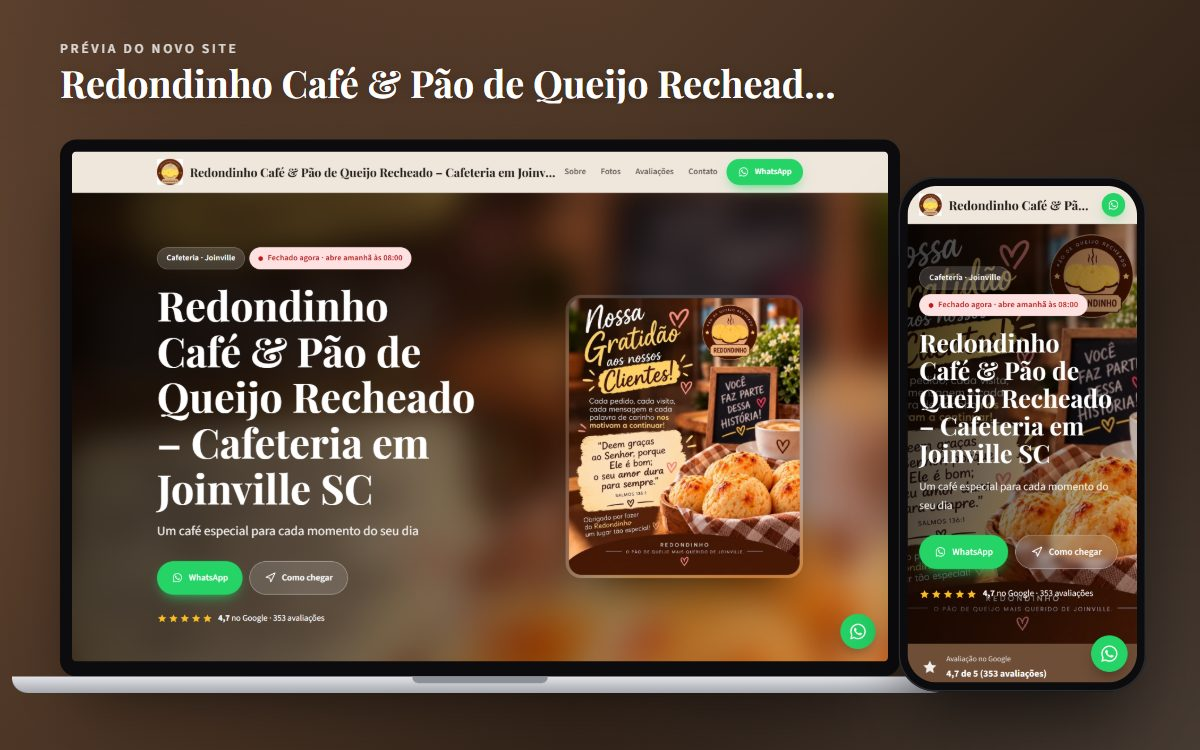
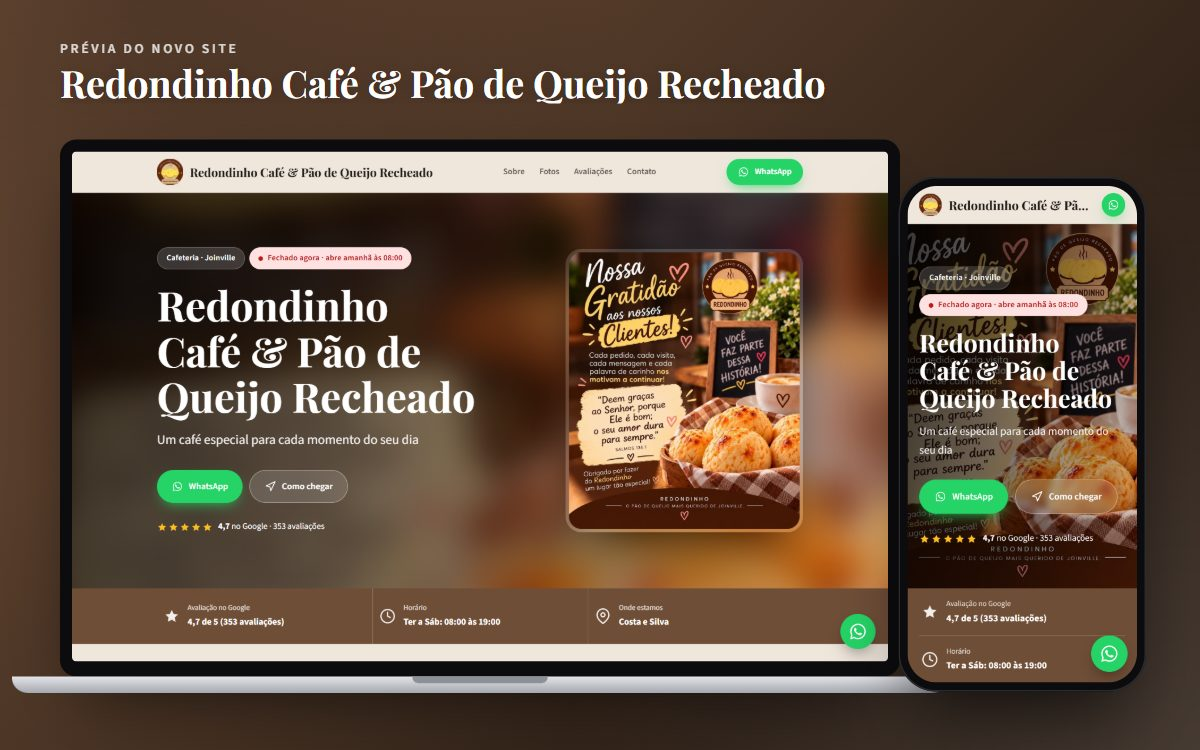
Prévia: Redondinho Café & Pão de Queijo Recheado – Cafeteria em Joinville SC

diff --git a/redondinho-cafe-pao-de-queijo-recheado-cafeteria-em-joinvill/index.html b/redondinho-cafe-pao-de-queijo-recheado-cafeteria-em-joinvill/index.html
@@ -3,14 +3,14 @@
 <head>
 <meta charset="utf-8">
 <meta name="viewport" content="width=device-width, initial-scale=1">
-<title>Redondinho Café &amp; Pão de Queijo Recheado – Cafeteria em Joinville SC | Joinville</title>
+<title>Redondinho Café &amp; Pão de Queijo Recheado | Joinville</title>
 <meta name="description" content="Um café especial para cada momento do seu dia">
 <meta name="robots" content="noindex, nofollow">
 <meta name="theme-color" content="#6f4e37">
-<meta name="versao" content="20261012012803">
+<meta name="versao" content="20261012013703">
 <link rel="icon" href="logo.png">
 <meta property="og:type" content="website">
-<meta property="og:title" content="Redondinho Café &amp; Pão de Queijo Recheado – Cafeteria em Joinville SC: prévia do novo site">
+<meta property="og:title" content="Redondinho Café &amp; Pão de Queijo Recheado: prévia do novo site">
 <meta property="og:description" content="Um café especial para cada momento do seu dia">
 <meta property="og:image" content="https://henriquecrs.github.io/previas/redondinho-cafe-pao-de-queijo-recheado-cafeteria-em-joinvill/capa.jpg">
 <meta property="og:image:width" content="1200">
@@ -413,7 +413,7 @@
 <header class="topo">
   <div class="container">
     <a class="marca" href="#inicio" data-editar-imagem="logo">
-      <img src="logo.png" alt=""><span>Redondinho Café &amp; Pão de Queijo Recheado – Cafeteria em Joinville SC</span>
+      <img src="logo.png" alt=""><span>Redondinho Café &amp; Pão de Queijo Recheado</span>
     </a>
     <nav class="menu">
       
@@ -433,7 +433,7 @@
   <div class="container">
     <div class="conteudo">
       <div class="selos"><span class="selo">Cafeteria · Joinville</span><span class="selo aberto" data-aberto hidden></span></div>
-      <h1 data-editar-texto="titulo">Redondinho Café &amp; Pão de Queijo Recheado – Cafeteria em Joinville SC</h1>
+      <h1 data-editar-texto="titulo">Redondinho Café &amp; Pão de Queijo Recheado</h1>
       <p class="slogan" data-editar-texto="slogan">Um café especial para cada momento do seu dia</p>
       <div class="acoes">
   
@@ -447,7 +447,7 @@
 </div>
 
     </div>
-    <div class="hero-quadro"><img src="banner.jpg" data-capa data-ampliar alt="Redondinho Café &amp; Pão de Queijo Recheado – Cafeteria em Joinville SC"></div>
+    <div class="hero-quadro"><img src="banner.jpg" data-capa data-ampliar alt="Redondinho Café &amp; Pão de Queijo Recheado"></div>
   </div>
 </section>
 <script>(function () {
@@ -498,7 +498,7 @@
       
     </div>
     
-    <div class="foto revelar" data-editar-imagem="sobre"><img data-ampliar src="fotos/1.jpg" alt="Redondinho Café &amp; Pão de Queijo Recheado – Cafeteria em Joinville SC"></div>
+    <div class="foto revelar" data-editar-imagem="sobre"><img data-ampliar src="fotos/1.jpg" alt="Redondinho Café &amp; Pão de Queijo Recheado"></div>
     
   </div>
 </section>
@@ -509,7 +509,7 @@
     <div class="cabeca revelar"><div class="olho">Fotos</div><h2>Venha conhecer</h2></div>
     
     <div class="galeria-grade mosaico" style="--colunas:4">
-      <figure data-editar-imagem="galeria"><img data-ampliar src="fotos/2.jpg" alt="Foto de Redondinho Café &amp; Pão de Queijo Recheado – Cafeteria em Joinville SC" loading="lazy"></figure><figure data-editar-imagem="galeria"><img data-ampliar src="fotos/3.jpg" alt="Foto de Redondinho Café &amp; Pão de Queijo Recheado – Cafeteria em Joinville SC" loading="lazy"></figure><figure data-editar-imagem="galeria"><img data-ampliar src="fotos/4.jpg" alt="Foto de Redondinho Café &amp; Pão de Queijo Recheado – Cafeteria em Joinville SC" loading="lazy"></figure><figure data-editar-imagem="galeria"><img data-ampliar src="fotos/5.jpg" alt="Foto de Redondinho Café &amp; Pão de Queijo Recheado – Cafeteria em Joinville SC" loading="lazy"></figure><figure data-editar-imagem="galeria"><img data-ampliar src="fotos/6.jpg" alt="Foto de Redondinho Café &amp; Pão de Queijo Recheado – Cafeteria em Joinville SC" loading="lazy"></figure>
+      <figure data-editar-imagem="galeria"><img data-ampliar src="fotos/2.jpg" alt="Foto de Redondinho Café &amp; Pão de Queijo Recheado" loading="lazy"></figure><figure data-editar-imagem="galeria"><img data-ampliar src="fotos/3.jpg" alt="Foto de Redondinho Café &amp; Pão de Queijo Recheado" loading="lazy"></figure><figure data-editar-imagem="galeria"><img data-ampliar src="fotos/4.jpg" alt="Foto de Redondinho Café &amp; Pão de Queijo Recheado" loading="lazy"></figure><figure data-editar-imagem="galeria"><img data-ampliar src="fotos/5.jpg" alt="Foto de Redondinho Café &amp; Pão de Queijo Recheado" loading="lazy"></figure><figure data-editar-imagem="galeria"><img data-ampliar src="fotos/6.jpg" alt="Foto de Redondinho Café &amp; Pão de Queijo Recheado" loading="lazy"></figure>
     </div>
   </div>
 </section>
@@ -582,7 +582,7 @@ Os cafés são bonitos e gostosos .”</p>
         <button class="btn btn-contorno" type="button" data-rota><svg class="" viewBox="0 0 24 24" fill="none" stroke="currentColor" stroke-width="2" stroke-linecap="round" stroke-linejoin="round" aria-hidden="true"><path d="M3 11l19-9-9 19-2-8-8-2z"/></svg>Como chegar</button>
       </div>
     </div>
-    <div class="mapa"><iframe src="https://maps.google.com/maps?q=-26.274276%2C-48.867514&amp;z=16&amp;output=embed" title="Mapa de Redondinho Café &amp; Pão de Queijo Recheado – Cafeteria em Joinville SC" loading="lazy" referrerpolicy="no-referrer-when-downgrade"></iframe></div>
+    <div class="mapa"><iframe src="https://maps.google.com/maps?q=-26.274276%2C-48.867514&amp;z=16&amp;output=embed" title="Mapa de Redondinho Café &amp; Pão de Queijo Recheado" loading="lazy" referrerpolicy="no-referrer-when-downgrade"></iframe></div>
   </div>
 </section>
 
@@ -600,7 +600,7 @@ Os cafés são bonitos e gostosos .”</p>
 
 <footer>
   <div class="container">
-    <div><h3>Redondinho Café &amp; Pão de Queijo Recheado – Cafeteria em Joinville SC</h3><p>Um café especial para cada momento do seu dia</p></div>
+    <div><h3>Redondinho Café &amp; Pão de Queijo Recheado</h3><p>Um café especial para cada momento do seu dia</p></div>
     <div><h4>Contato</h4><ul>
       <li>(47) 98906-0303</li>
       <li>R. Guilherme, 1260 - Costa e Silva, Joinville - SC, 89218-500, Brasil</li>
@@ -608,7 +608,7 @@ Os cafés são bonitos e gostosos .”</p>
     <div><h4>Horário</h4><ul>
       <li>Seg: Fechado</li><li>Ter a Sáb: 08:00 às 19:00</li><li>Dom: Fechado</li>
     </ul></div>
-    <div class="creditos">© 2026 Redondinho Café &amp; Pão de Queijo Recheado – Cafeteria em Joinville SC. Todos os direitos reservados.</div>
+    <div class="creditos">© 2026 Redondinho Café &amp; Pão de Queijo Recheado. Todos os direitos reservados.</div>
   </div>
 </footer>
 
@@ -631,7 +631,7 @@ Os cafés são bonitos e gostosos .”</p>
 
 
 <div class="barra-previa">
-  <span>Esta é uma prévia do novo site de <strong>Redondinho Café &amp; Pão de Queijo Recheado – Cafeteria em Joinville SC</strong>, feita por Henrique Costa.</span>
+  <span>Esta é uma prévia do novo site de <strong>Redondinho Café &amp; Pão de Queijo Recheado</strong>, feita por Henrique Costa.</span>
   <button class="btn btn-whats" type="button" data-painel="quero">Quero este site</button>
 </div>
 <div class="painel-fundo modal" id="painel-quero" hidden>
@@ -653,7 +653,7 @@ Os cafés são bonitos e gostosos .”</p>
 </div>
 
 
-<script type="application/json" id="dados-previa">{"aviso": {"clique": "https://wa.me/5547989060303", "lead": 775, "url": "https://ntfy.sh/buscas-af8141b474638e425c7e"}, "captura": false, "entrega": true, "itens": [{"duracao": 0, "emoji": "\u2615", "extra": "", "foto": "", "nome": "Cappuccino", "preco": 11.0, "preco_txt": "R$ 11,00"}, {"duracao": 0, "emoji": "\ud83e\uddc0", "extra": "", "foto": "", "nome": "P\u00e3o de queijo", "preco": 6.0, "preco_txt": "R$ 6,00"}, {"duracao": 0, "emoji": "\ud83c\udf70", "extra": "", "foto": "", "nome": "Bolo do dia", "preco": 10.0, "preco_txt": "R$ 10,00"}, {"duracao": 0, "emoji": "\u2615", "extra": "", "foto": "", "nome": "Espresso", "preco": 6.5, "preco_txt": "R$ 6,50"}, {"duracao": 0, "emoji": "\u2615", "extra": "", "foto": "", "nome": "Espresso duplo", "preco": 9.0, "preco_txt": "R$ 9,00"}, {"duracao": 0, "emoji": "\u2615", "extra": "", "foto": "", "nome": "Latte", "preco": 12.0, "preco_txt": "R$ 12,00"}, {"duracao": 0, "emoji": "\u2615", "extra": "", "foto": "", "nome": "Mocha", "preco": 14.0, "preco_txt": "R$ 14,00"}, {"duracao": 0, "emoji": "\u2615", "extra": "", "foto": "", "nome": "Caf\u00e9 coado", "preco": 7.0, "preco_txt": "R$ 7,00"}, {"duracao": 0, "emoji": "\ud83e\udd64", "extra": "", "foto": "", "nome": "Caf\u00e9 gelado", "preco": 14.0, "preco_txt": "R$ 14,00"}, {"duracao": 0, "emoji": "\ud83e\udd64", "extra": "", "foto": "", "nome": "Frapp\u00e9", "preco": 18.0, "preco_txt": "R$ 18,00"}, {"duracao": 0, "emoji": "\ud83e\udd64", "extra": "", "foto": "", "nome": "Ch\u00e1 gelado", "preco": 10.0, "preco_txt": "R$ 10,00"}, {"duracao": 0, "emoji": "\ud83e\udd50", "extra": "", "foto": "", "nome": "Croissant", "preco": 12.0, "preco_txt": "R$ 12,00"}, {"duracao": 0, "emoji": "\ud83e\udd67", "extra": "", "foto": "", "nome": "Quiche (fatia)", "preco": 16.0, "preco_txt": "R$ 16,00"}, {"duracao": 0, "emoji": "\ud83e\uddc0", "extra": "", "foto": "", "nome": "Tostex", "preco": 14.0, "preco_txt": "R$ 14,00"}, {"duracao": 0, "emoji": "\ud83c\udf6a", "extra": "", "foto": "", "nome": "Cookie", "preco": 8.0, "preco_txt": "R$ 8,00"}], "nome": "Redondinho Caf\u00e9 \u0026 P\u00e3o de Queijo Recheado \u2013 Cafeteria em Joinville SC", "recurso": "nenhum", "semana": {"0": [], "1": [[480, 1140]], "2": [[480, 1140]], "3": [[480, 1140]], "4": [[480, 1140]], "5": [[480, 1140]], "6": []}, "whatsapp": "5547989060303"}</script>
+<script type="application/json" id="dados-previa">{"aviso": {"clique": "https://wa.me/5547989060303", "lead": 775, "url": "https://ntfy.sh/buscas-af8141b474638e425c7e"}, "captura": false, "entrega": true, "itens": [{"duracao": 0, "emoji": "\u2615", "extra": "", "foto": "", "nome": "Cappuccino", "preco": 11.0, "preco_txt": "R$ 11,00"}, {"duracao": 0, "emoji": "\ud83e\uddc0", "extra": "", "foto": "", "nome": "P\u00e3o de queijo", "preco": 6.0, "preco_txt": "R$ 6,00"}, {"duracao": 0, "emoji": "\ud83c\udf70", "extra": "", "foto": "", "nome": "Bolo do dia", "preco": 10.0, "preco_txt": "R$ 10,00"}, {"duracao": 0, "emoji": "\u2615", "extra": "", "foto": "", "nome": "Espresso", "preco": 6.5, "preco_txt": "R$ 6,50"}, {"duracao": 0, "emoji": "\u2615", "extra": "", "foto": "", "nome": "Espresso duplo", "preco": 9.0, "preco_txt": "R$ 9,00"}, {"duracao": 0, "emoji": "\u2615", "extra": "", "foto": "", "nome": "Latte", "preco": 12.0, "preco_txt": "R$ 12,00"}, {"duracao": 0, "emoji": "\u2615", "extra": "", "foto": "", "nome": "Mocha", "preco": 14.0, "preco_txt": "R$ 14,00"}, {"duracao": 0, "emoji": "\u2615", "extra": "", "foto": "", "nome": "Caf\u00e9 coado", "preco": 7.0, "preco_txt": "R$ 7,00"}, {"duracao": 0, "emoji": "\ud83e\udd64", "extra": "", "foto": "", "nome": "Caf\u00e9 gelado", "preco": 14.0, "preco_txt": "R$ 14,00"}, {"duracao": 0, "emoji": "\ud83e\udd64", "extra": "", "foto": "", "nome": "Frapp\u00e9", "preco": 18.0, "preco_txt": "R$ 18,00"}, {"duracao": 0, "emoji": "\ud83e\udd64", "extra": "", "foto": "", "nome": "Ch\u00e1 gelado", "preco": 10.0, "preco_txt": "R$ 10,00"}, {"duracao": 0, "emoji": "\ud83e\udd50", "extra": "", "foto": "", "nome": "Croissant", "preco": 12.0, "preco_txt": "R$ 12,00"}, {"duracao": 0, "emoji": "\ud83e\udd67", "extra": "", "foto": "", "nome": "Quiche (fatia)", "preco": 16.0, "preco_txt": "R$ 16,00"}, {"duracao": 0, "emoji": "\ud83e\uddc0", "extra": "", "foto": "", "nome": "Tostex", "preco": 14.0, "preco_txt": "R$ 14,00"}, {"duracao": 0, "emoji": "\ud83c\udf6a", "extra": "", "foto": "", "nome": "Cookie", "preco": 8.0, "preco_txt": "R$ 8,00"}], "nome": "Redondinho Caf\u00e9 \u0026 P\u00e3o de Queijo Recheado", "recurso": "nenhum", "semana": {"0": [], "1": [[480, 1140]], "2": [[480, 1140]], "3": [[480, 1140]], "4": [[480, 1140]], "5": [[480, 1140]], "6": []}, "whatsapp": "5547989060303"}</script>
 <script>
 (function () {
   var D = JSON.parse(document.getElementById('dados-previa').textContent);
